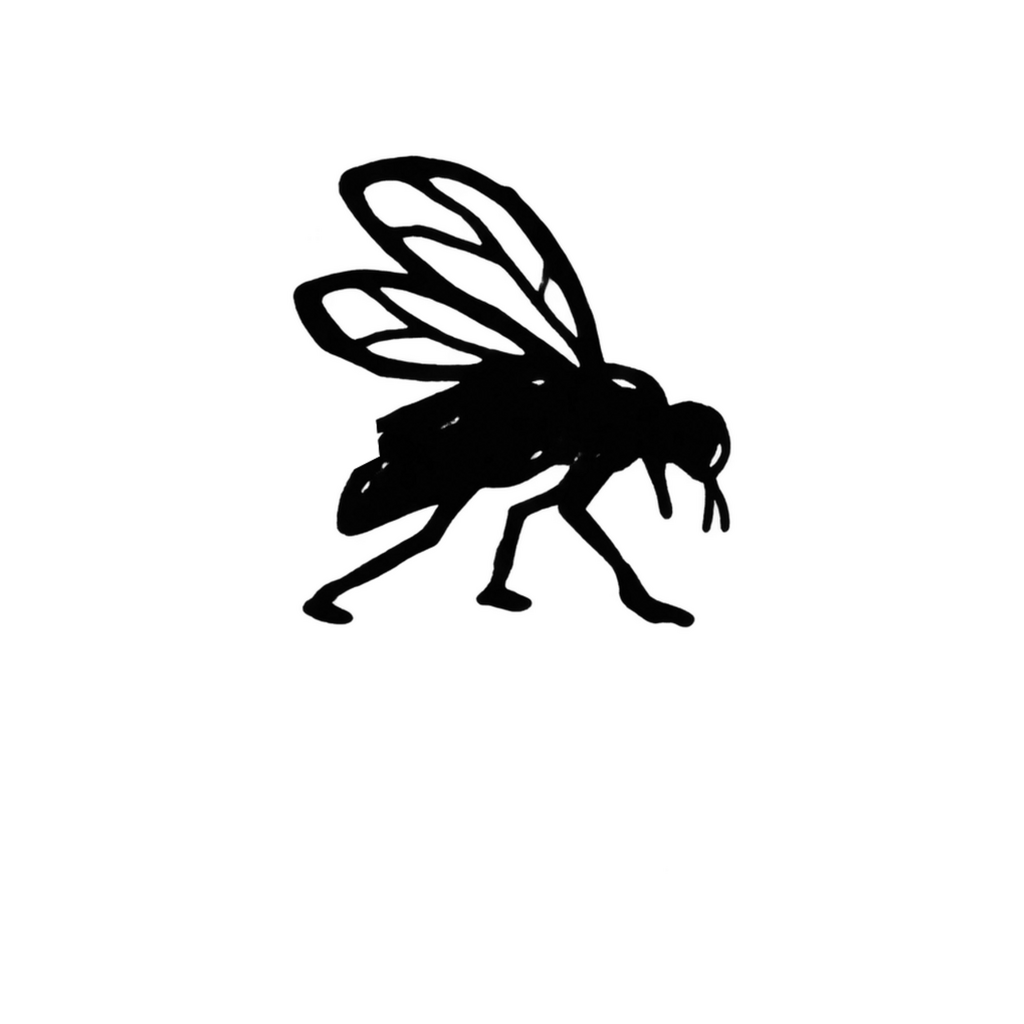
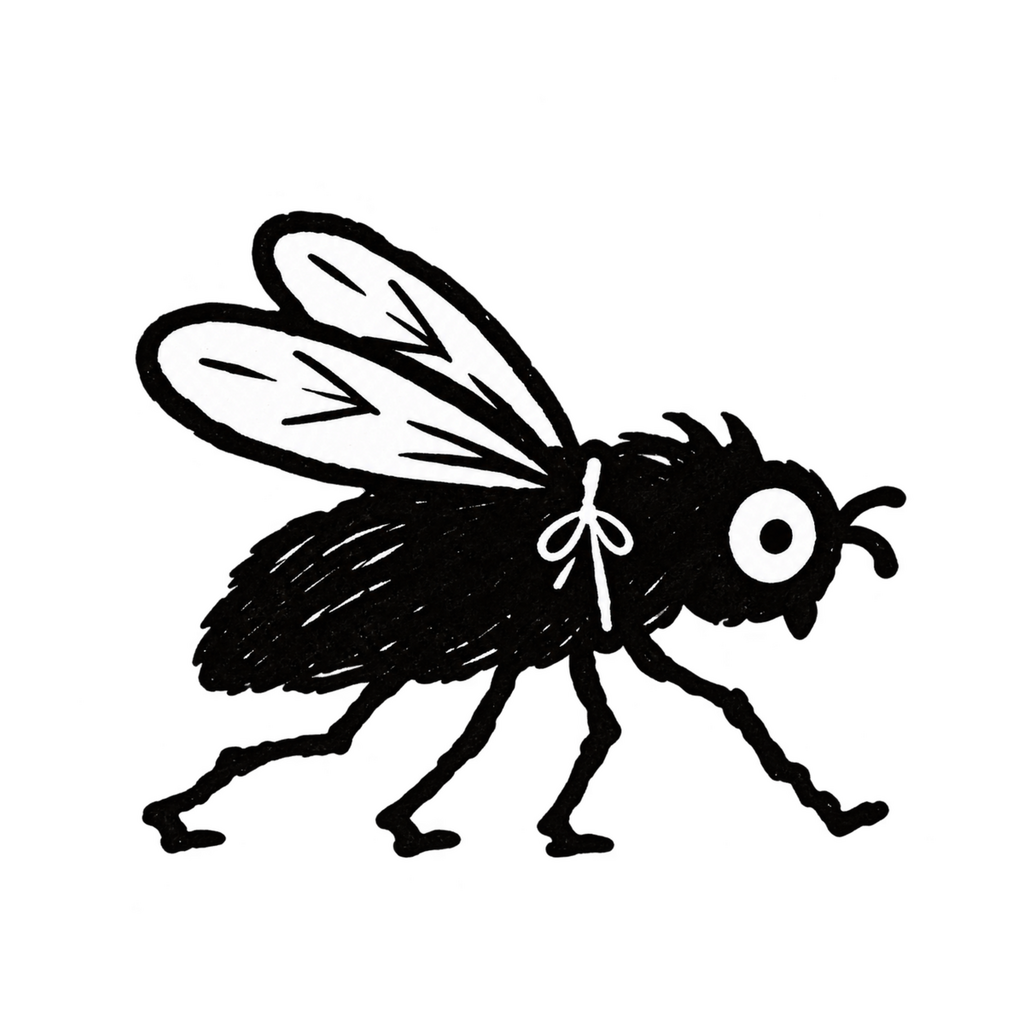
Add files via upload

Changed region(s): [[0.125, 0.125, 0.9062, 0.8438]]

diff --git a/public/sw.js b/public/sw.js
@@ -1,10 +1,10 @@
-const CACHE_NAME = "entofield-v7-icon-font-and-tutorial";
+const CACHE_NAME = "entofield-v8-eyed-fly";
 const APP_SHELL = [
   "/",
   "/manifest.webmanifest",
   "/icon-192.png",
   "/icon-512.png",
-  "/entofield-icon-v2.png",
+  "/entofield-icon-v3.png",
   "/fonts/DejaVuSans.ttf",
   "/fonts/DejaVuSans-Bold.ttf",
   "/fonts/DejaVuSans-Oblique.ttf",

diff --git a/app/layout.tsx b/app/layout.tsx
@@ -13,9 +13,9 @@ export const metadata: Metadata = {
     title: "EntoField",
   },
   icons: {
-    icon: "/entofield-icon-v2.png",
-    shortcut: "/entofield-icon-v2.png",
-    apple: "/entofield-icon-v2.png",
+    icon: "/entofield-icon-v3.png",
+    shortcut: "/entofield-icon-v3.png",
+    apple: "/entofield-icon-v3.png",
   },
 };
 

diff --git a/CHANGELOG-0.10.0.md b/CHANGELOG-0.10.0.md
@@ -25,3 +25,5 @@
   markers from the distributable source.
 - Changes the beige paper surfaces to clean white while keeping a very faint
   notebook grid in the main workspace.
+- Replaces the generic eyeless fly icon with the recognizable walking
+  EntoField fly: round eye, veined wings, long legs, and no trailing label.
